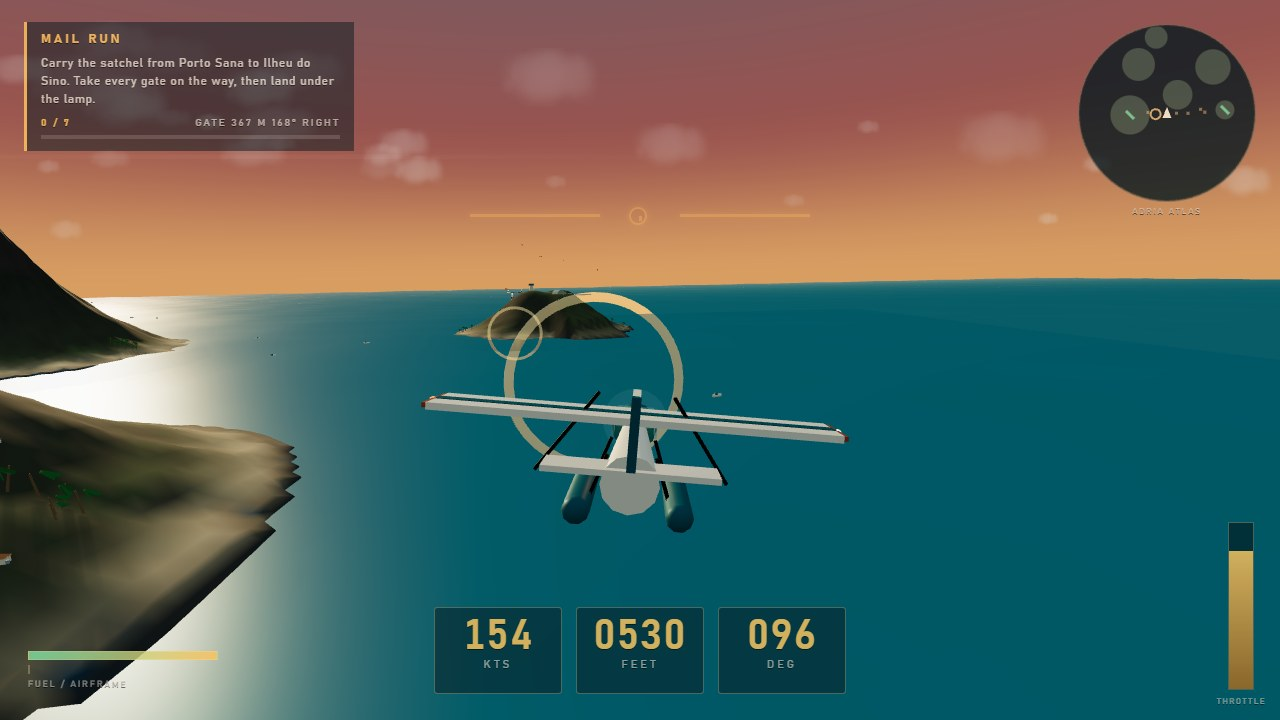
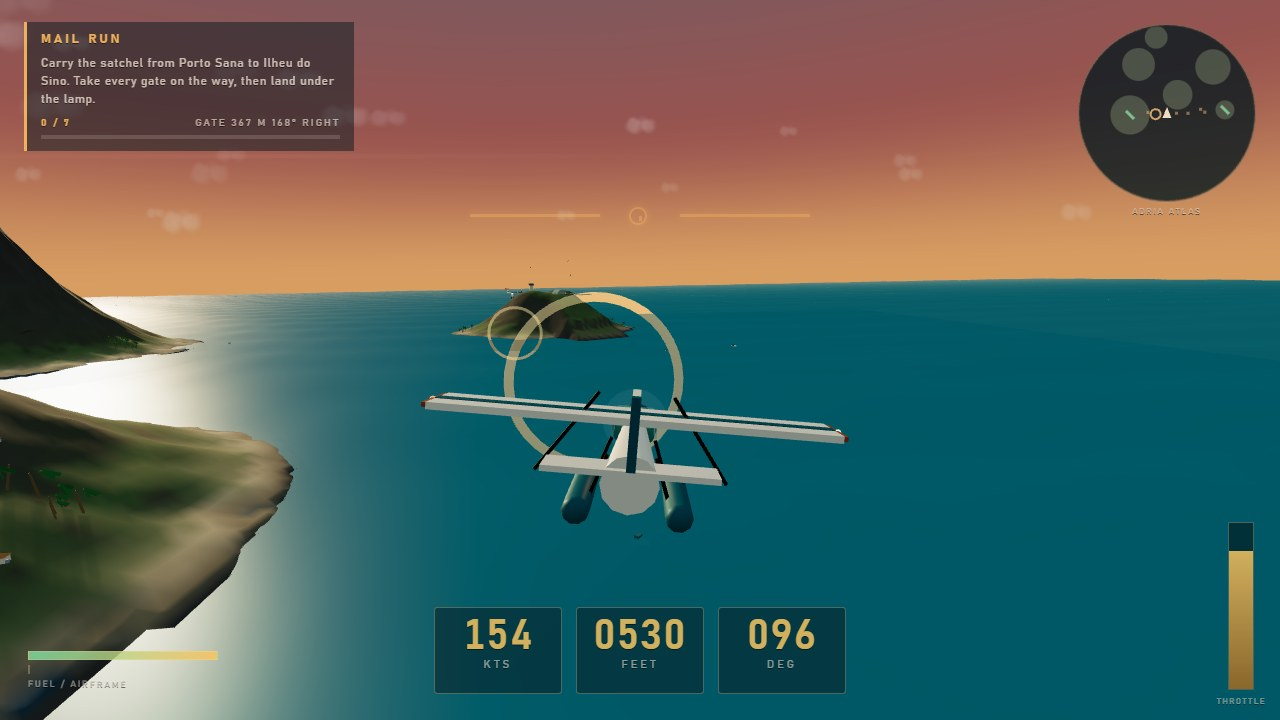
Terrain surface: brighter cover, rock and scrub mottling at two scales; one-off shots to shots/

diff --git a/game/src/terrain/buildIslands.js b/game/src/terrain/buildIslands.js
@@ -7,13 +7,13 @@ import { groundAt, ISLANDS, AIRSTRIPS, fbm, noise } from './heightfield.js';
 const SAND = new THREE.Color('#c6b089');
 const WET = new THREE.Color('#7d7158');
 const SHOAL = new THREE.Color('#12495a');
-const MOSS = new THREE.Color('#5c6f3c');
-const JUNGLE = new THREE.Color('#334c2f');
+const MOSS = new THREE.Color('#71854a');
+const JUNGLE = new THREE.Color('#4a6639');
 const BASALT = new THREE.Color('#3a3733');
 const ASH = new THREE.Color('#574c44');
 const EMBER = new THREE.Color('#7a4126');
 
-function groundColor(height, slope, volcanic) {
+function groundColor(height, slope, volcanic, x, z) {
   const c = new THREE.Color();
   if (height < 1.3) c.copy(SHOAL).lerp(WET, THREE.MathUtils.clamp(height / 1.3, 0, 1) * 0.8);
   else if (height < 6) c.copy(WET).lerp(SAND, (height - 1.3) / 4.7);
@@ -23,7 +23,13 @@ function groundColor(height, slope, volcanic) {
   else c.copy(JUNGLE).lerp(BASALT, Math.min(1, (height - 200) / 300));
   if (volcanic && height > 430) c.lerp(EMBER, (height - 430) / 240);
   c.lerp(BASALT, Math.min(0.85, slope * 2.1));
-  const grain = 0.88 + noise(height * 0.7, height * 1.3) * 0.24;
+  // Rock breaking through the slope, and scrub mottling the gentle ground: two scales of mark,
+  // so a face carries speckle and erosion rather than one flat tone.
+  if (slope > 0.34) c.lerp(ROCK, Math.min(0.7, (slope - 0.34) * 1.3) * (0.4 + noise(x * 0.06, z * 0.06) * 0.7));
+  if (height > 8 && height < 190 && slope < 0.4) {
+    c.lerp(JUNGLE, 0.22 + noise(x * 0.045, z * 0.045) * 0.38);
+  }
+  const grain = 0.93 + noise(x * 0.05, z * 0.05) * 0.1 + noise(x * 0.23, z * 0.23) * 0.09;
   return c.multiplyScalar(grain);
 }
 
@@ -45,7 +51,7 @@ export function buildTerrain(scene) {
     const dz = groundAt(x, z + 12) - groundAt(x, z - 12);
     const slope = Math.min(1, Math.hypot(dx, dz) / 34);
     const volcanic = Math.hypot(x - 1180, z + 240) < 900;
-    const c = groundColor(h, slope, volcanic);
+    const c = groundColor(h, slope, volcanic, x, z);
     colors[i * 3] = c.r;
     colors[i * 3 + 1] = c.g;
     colors[i * 3 + 2] = c.b;
@@ -67,7 +73,7 @@ export function buildTerrain(scene) {
 }
 
 function buildSea() {
-  const geo = new THREE.PlaneGeometry(WORLD.size * 3, WORLD.size * 3, 110, 110);
+  const geo = new THREE.PlaneGeometry(WORLD.size * 3, WORLD.size * 3, 190, 190);
   geo.rotateX(-Math.PI / 2);
   const material = new THREE.MeshStandardMaterial({
     color: '#2f8798',

diff --git a/game/src/config.js b/game/src/config.js
@@ -3,7 +3,7 @@
 export const WORLD = {
   size: 5200,          // metres across the archipelago
   seaLevel: 0,
-  grid: 320,           // heightfield resolution per side
+  grid: 400,           // heightfield resolution per side
   maxHeight: 620,
   fogNear: 1500,
   fogFar: 9600,
